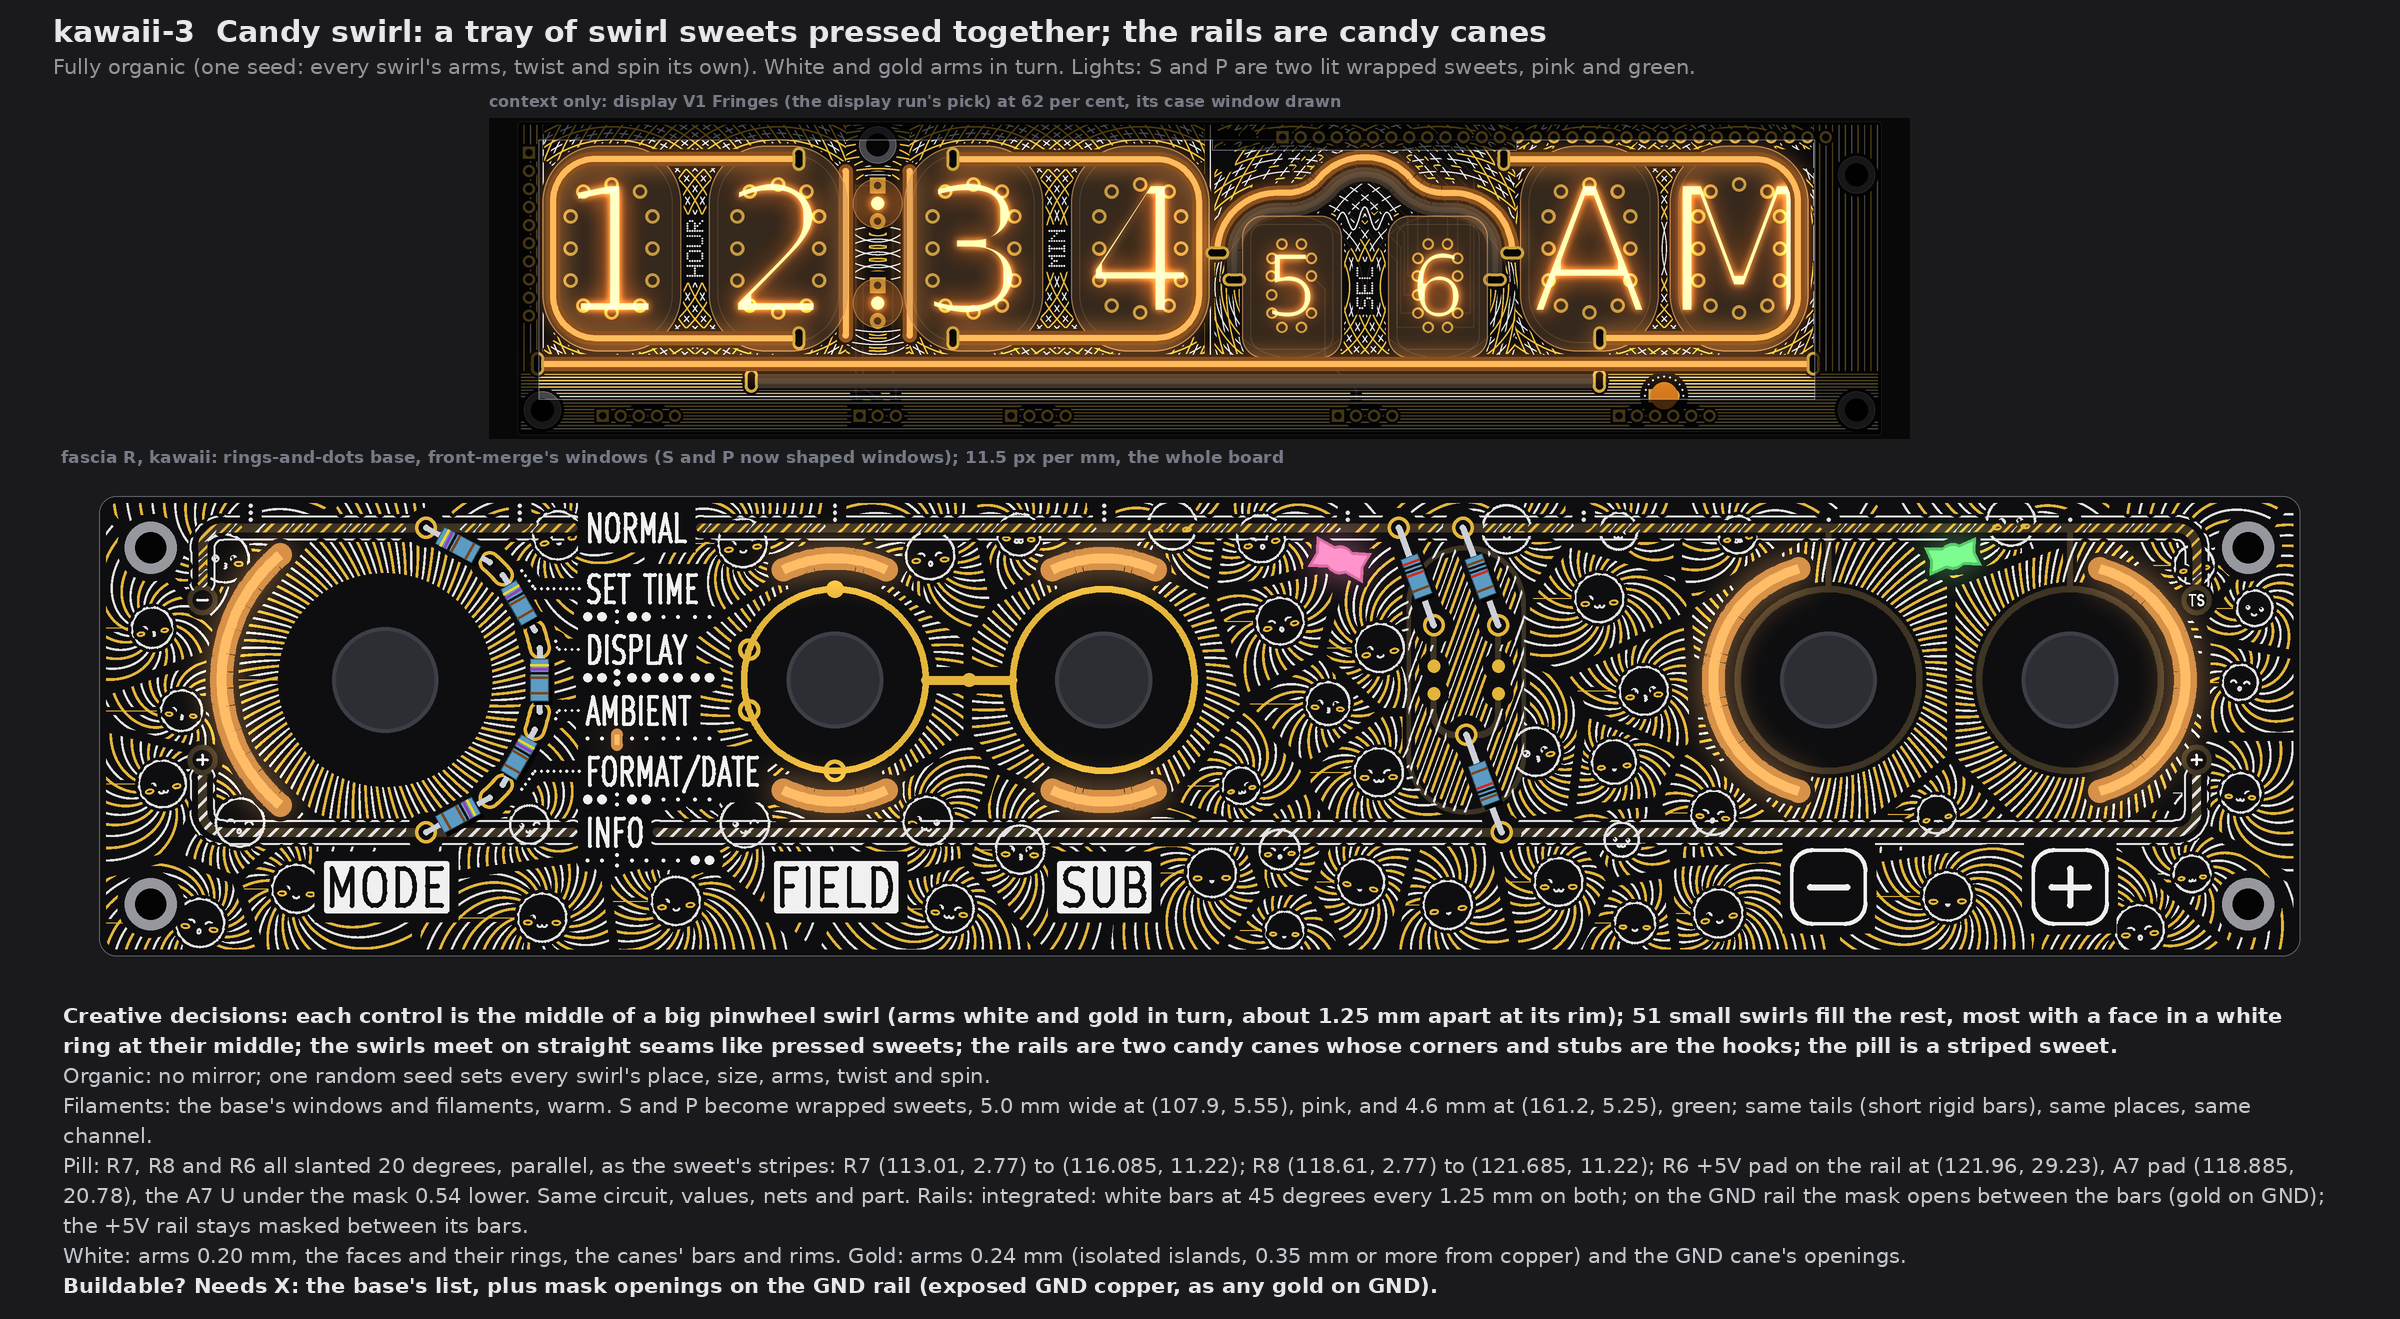
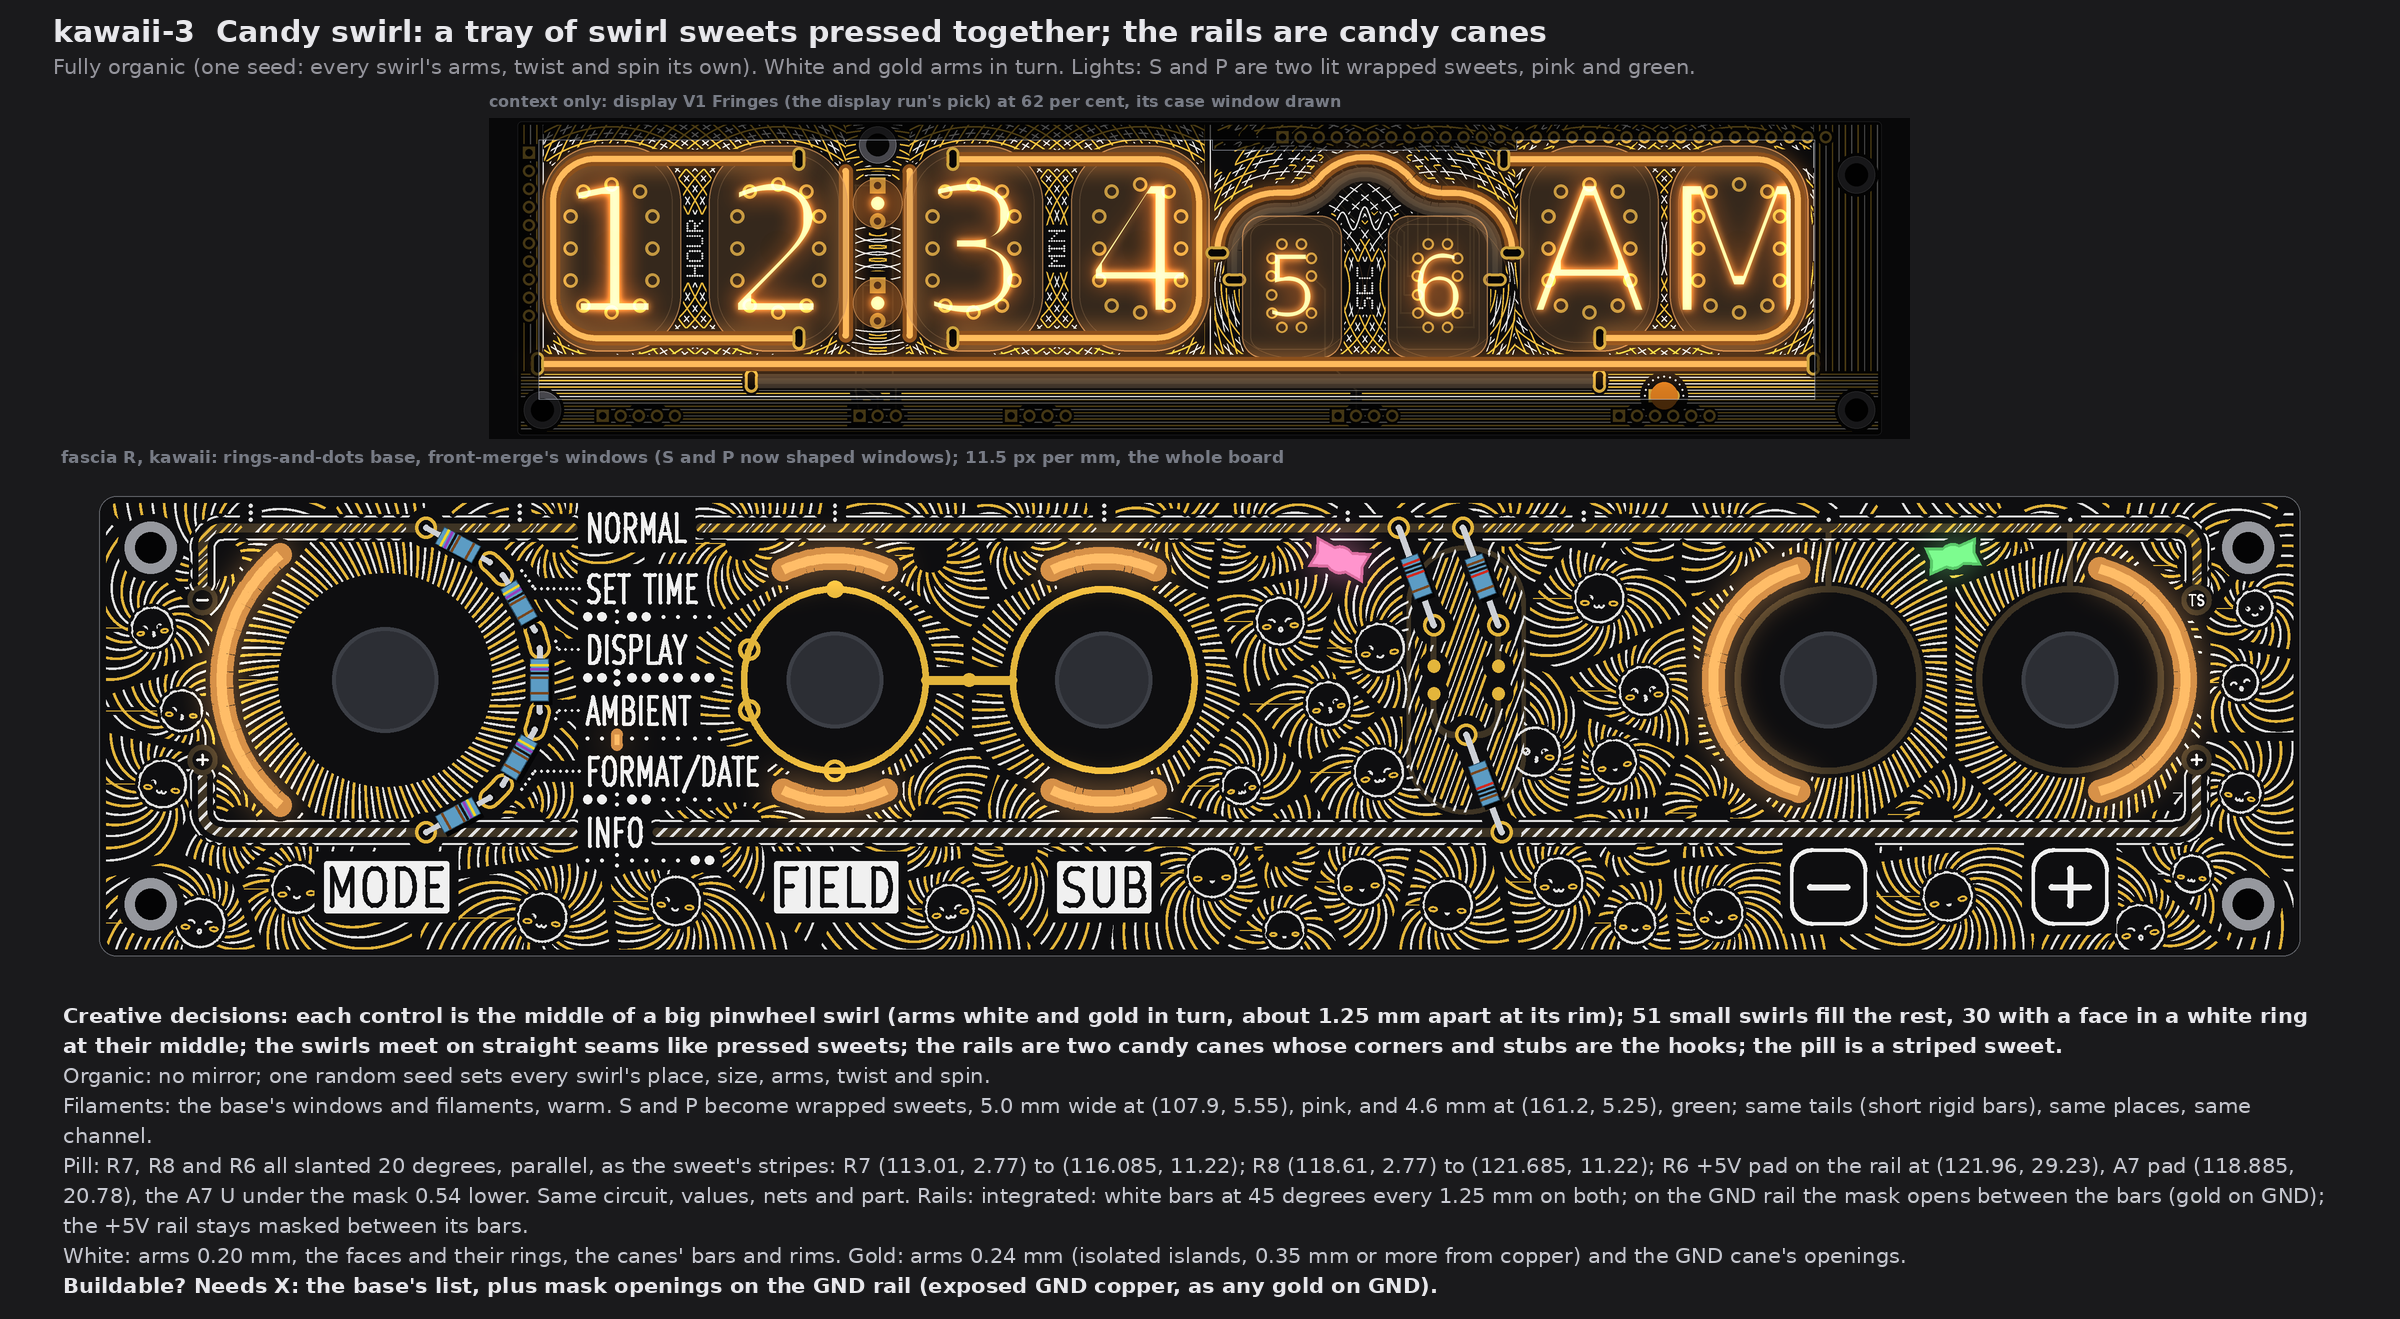
PCB/art: TS06 fascia kawaii write-up; final faces after the full-size look (drawings only)
Claude-Session: https://claude.ai/code/session_01WoV3gyAFgmtuk6W6Dr4bdA

diff --git a/PCB/art/TS06-FASCIA-kawaii.md b/PCB/art/TS06-FASCIA-kawaii.md
@@ -1,0 +1,173 @@
+# TS06 fascia, kawaii: three faces over the fascia light base (drawings only, nothing built)
+
+2026-10-14, front round 3, run fascia-kawaii. The owner's word for this theme: "kawaii - name speaks for itself"; all three faces
+wild, art over the whole board, info first. Every character is my own; none is an existing character, brand or emblem. The owner's
+queue changes of 19:5x UTC are in: the two top-edge dots are gone and their lights feed shaped windows, each face arranges the pill
+(the ladder's capsule) and fills it, each face says what it does with the rails, and display V1 Fringes (the display run's pick)
+stands above each face as context.
+
+Each face is fascia R with the owner's rings-and-dots (front-merge section 6) and front-merge's windows and C, drawn from the board
+file's copy that pass 4 used, at one scale (11.5 px per mm), windows lit. No board, schematic, fab, tool, 3D, firmware or spec file
+was touched. The scripts are scratch (copies of the science run's), not in the repo. Marks: *measured* is from the drawing's raster
+(23 px per mm) or the board file; *inferred* is arithmetic; *assumed* is my reading.
+
+![The three faces at one scale](TS06-FASCIA-kawaii/contact-sheet.png)
+
+## 1. What every face keeps
+
+* **Fixed:** the outline, holes, controls and their places, J1, the names, plates, key legends, tube maps, dot leaders and the
+  top-edge tube index; FIELD's and SUB's gold rings, the link, the four SUB marks on FIELD's ring and the GND via; C by AMBIENT.
+* **Info first:** white and gold keep 0.75 mm from every name, plate, key legend, tube-map dot, leader and index dot, and from
+  E1's exposed gold (rings, link, marks, the dial's and ladder's pads), so each stands on its own calm ground. Gold keeps 0.35 mm
+  from all other copper; white may run over copper under the mask. Nothing crosses a legend (section 6).
+* **The light base:** front-merge's windows and C, warm by default. The two 2.0 mm dots info S (108.6, 4.5) and info P
+  (160.9, 4.5) are gone on every face; their lights now feed shaped windows (section 5).
+* **Channels on the new fascia connector** (J1 is full; front-merge items 10 and 11), grouping *assumed* as the organic run's:
+  1 MODE, 2 FIELD up + down, 3 SUB up + down, 4 the two keys, 5 info S + P + C, 6 spare. All three faces stay on 1 to 5. Nothing
+  comes from DISP. No face adds a filament, so the 5 V worst case is the base's (front-merge section 5).
+* **Fab note (once):** bare-FR4 windows still need the fab's yes (pass 1's coupon). Not decided here.
+
+## 2. kawaii-1 Mochi crowd
+
+![kawaii-1](TS06-FASCIA-kawaii/kawaii-1-mochi-crowd.png)
+
+* **Creative decisions:** a crowd of 126 small round characters of my own (soft, flat-bottomed mochi) packed largest-first into
+  every free space. Each leans and looks toward its nearest control. Faces come from a small set (dot, happy, sleepy, wink and
+  sparkle eyes; w, u, o and 3 mouths); some have bunny, cat or bear ears or a sprout. Sugar dots and four-point sparkles fill the
+  gaps. White and gold bodies alternate.
+* **Fully organic.** No mirror anywhere; one random seed sets every size, tilt, face and place.
+* **Filaments:** the base's, warm: MODE arc 38 flex; FIELD and SUB up and down, 18.5 rigid in curved clips (or 38 flex); the key
+  arcs, 38 flex each; C's tail. **S and P become two lit hearts**, 3.3 mm and 2.9 mm wide, at (108.4, 5.55) and (161.3, 5.35),
+  tilted -14 and +11 degrees. Same tails, same places, same channel, **pink** (the sold rigid pink).
+* **Pill:** nothing moved (E1's places for R6, R7 and R8). A sleepy mochi is tucked in at its top between R7 and R8, and a small
+  heart sits between the landing dots. The circuit is unchanged.
+* **Rails: shown, white.** A 0.3 mm white line runs over each masked rail, its corners and its stubs to the lugs. The crowd sits on
+  them like shelves (the characters keep 0.5 mm off the lines).
+* **White:** outlines and faces 0.18 mm, sugar dots r 0.13, sparkles; over masked copper only.
+* **Gold:** 54 of the bodies and the blush ovals, 0.22 mm; isolated islands, 0.68 mm or more from copper.
+* **Buildable? OK** on the base's own needs (front-merge items 9 to 11); the hearts are cut like the other windows.
+
+## 3. kawaii-2 Plush pals
+
+![kawaii-2](TS06-FASCIA-kawaii/kawaii-2-plush-pals.png)
+
+* **Creative decisions:** the fascia is a plush sewn from panels, with white stitches on the seams, and the controls are the
+  characters:
+  * a daisy round the dial (18 petals with gold midribs);
+  * a cub whose ears are the two levers and whose headband is the gold link;
+  * a bunny in the pill whose ears are R7 and R8;
+  * a hamster whose cheeks are the keys (their arcs lit pink as blush), whose closed eyes are the lit P window, and whose paws hold
+    the minus and plus;
+  * a column of hearts.
+
+  Each panel is filled with its character's outline repeated, white and gold in turn, like a sticker's borders.
+* **Strictly symmetric.** Each panel is mirrored exactly on its own axis: the dial's panel (x 0 to 55.8, y 0 to 32) on the control
+  row y 16 (its rails, taps, ladder, leaders and name rows are all mirrored there); the hems under it on x 24.99 (MODE) and 52.89;
+  the cub on 75.68; the hearts on 98.28; the bunny on 118.885; the hamster on 160.9; the edge on 188.215.
+  * A panel keeps a stroke only if its mirror image keeps it, so the cuts round the information are mirrored too.
+  * *Measured:* the share of a panel's ink with no mirror partner within 2 px is 0 for the daisy, the hems and the edge, at most
+    0.2 per cent for the cub and the bunny, and at most 1.3 per cent for the hearts and the hamster (raster rounding).
+  * Where a screw's mirror image falls inside a panel, at (4.5, 27.5) and (45.48, 35.5), a sewn button fills the mirrored cut: the
+    art's twin of a part.
+* **Filaments:**
+  * The base's MODE arc and FIELD and SUB arcs stay warm.
+  * **The key arcs become pink** (38 flex, pink; the cheeks).
+  * **P becomes the hamster's closed eyes:** two windows 3.2 x 1.15 mm, 0.95 thick, at (156.3, 6.3) and (165.5, 6.3). They are lit
+    by **one 18.5 rigid bar, warm**, lying level at y 6.3 from x 151.65 to 170.15 behind both. It replaces the tail and sits 1.8 mm
+    lower.
+  * **S moves into the pill** as a 3.0 mm pink heart at (118.885, 8.35). Its tail moves 10.3 mm right and 3.85 mm down. C stays as
+    the base.
+* **Pill:** R7 (20k) and R8 (10k) are splayed 18 degrees out as the bunny's ears. R6 does not move. The circuit, values, nets and
+  part do not change.
+  * The top pads stay on the GND rail, at x 113.31 and 124.47 (were 116.085 and 121.685).
+  * The bottom pads stay at x 116.085 and 121.685, now at y 11.33 (were 11.77), so the LEVA and LEVB drops are 0.44 mm longer.
+  * The pads keep 1.0 mm or more from the capsule's GND walls (*inferred*).
+  * The landing dots (the eyes) do not move. Nor do the A7 U and its route to J1 pin 4 (A7, at (154.4, 30.55) on the back, as on
+    the ordered board).
+* **Rails: hidden** under the mask, as in E1; the panels' white runs over them.
+* **White:** outlines 0.18 mm at 1.1 mm pitch, the characters, the seams (0.7 mm dashes), the buttons.
+* **Gold:** the half-pitch outlines 0.22 mm, the petals' midribs, the cub's nose and blush, the hamster's nose; isolated islands,
+  0.36 mm or more from copper.
+* **Buildable? Needs X:** the base's list, plus new clip places and pour cuts for the P bar and the moved S tail, and pink flex
+  for the key arcs.
+
+![kawaii-2 at 2x](TS06-FASCIA-kawaii/detail-2x.png)
+
+## 4. kawaii-3 Candy swirl
+
+![kawaii-3](TS06-FASCIA-kawaii/kawaii-3-candy-swirl.png)
+
+* **Creative decisions:** a tray of swirl sweets pressed together.
+  * Each control is the middle of a big pinwheel swirl: 46 to 58 arms, white and gold in turn, about 1.25 mm apart at its rim,
+    each with its own twist and spin.
+  * 51 smaller swirls fill the rest. 30 of them have a face in a white ring at their middle.
+  * The swirls meet on straight seams, like pressed sweets.
+  * The rails are two candy canes; their corners and stubs to the lugs are the hooks.
+  * The pill is a striped sweet.
+* **Fully organic.** No mirror; one random seed sets every swirl's place, size, arms, twist and spin.
+* **Filaments:** the base's windows and filaments, warm. **S and P become two lit wrapped sweets**: 5.0 mm wide at (107.9, 5.55),
+  **pink**, and 4.6 mm at (161.2, 5.25), **green**. Same tails at the same places (*assumed* the shortest sold rigid bar, 18.5,
+  lying behind each sweet), same channel.
+* **Pill:** R7, R8 and R6 are all slanted 20 degrees, parallel, as the sweet's stripes. White and gold stripes 0.95 mm apart run
+  parallel to them inside the capsule. The circuit, values, nets and part do not change.
+  * R7 runs from (113.01, 2.77) to (116.085, 11.22).
+  * R8 runs from (118.61, 2.77) to (121.685, 11.22). Its top pad meets the capsule's GND stem, which is the same net.
+  * R6's +5V pad sits on the rail at (121.96, 29.23), 1.25 mm from the capsule's bottom arc (*inferred*). Its A7 pad is at
+    (118.885, 20.78), and the A7 U under the mask moves 0.54 mm lower.
+* **Rails: integrated** as canes. White bars at 45 degrees, every 1.25 mm, cross both rails, and a white rim runs 0.6 mm off each
+  cane. On the GND rail the mask opens between the bars (gold, on GND); the +5V rail stays masked between its bars. The copper does
+  not change.
+* **White:** the arms 0.20 mm, the faces and their rings, the canes' bars and rims.
+* **Gold:** the arms 0.24 mm (isolated islands, 0.34 mm or more from any copper that is not the GND rail), and the GND cane's
+  openings.
+* **Buildable? Needs X:** the base's list, plus mask openings on the GND rail (exposed GND copper, like any gold on GND).
+
+## 5. The light base and what each face changes
+
+![The fascia's back: base and changes](TS06-FASCIA-kawaii/lights-back.png)
+
+| Face | Change against the base | Filament (sold list), form | Colour | Channel | On the fascia's back |
+|---|---|---|---|---|---|
+| kawaii-1 | S and P reshaped as hearts (3.3 and 2.9 mm), same places | the base's tails | pink | 5 | the pour cuts follow the hearts |
+| kawaii-2 | **S moved** to (118.885, 8.35) as a 3.0 mm heart; **P reshaped and moved 1.8 mm down** into two closed-eye windows at (156.3, 6.3) and (165.5, 6.3); key arcs recoloured | S: the tail, moved; P: **one 18.5 rigid bar**, level, x 151.65 to 170.15; keys: 38 flex | S pink, P warm, keys **pink** | 5, 5, 4 | new pour cuts and clip places; the S tail sits between R7's and R8's leads on the pill's back (room *assumed*) |
+| kawaii-3 | S and P reshaped as wrapped sweets (5.0 and 4.6 mm), same places | the tails (*assumed* 18.5 rigid) | S pink, P **green** | 5 | the pour cuts follow the sweets |
+
+**Colours each face ships with:** kawaii-1 warm + pink; kawaii-2 warm + pink; kawaii-3 warm + pink + green. No face adds a
+filament or a channel; the 5 V worst case stays the base's.
+
+## 6. The checks (*measured* on the raster, 23 px per mm)
+
+| Check | Rule | kawaii-1 | kawaii-2 | kawaii-3 |
+|---|---|---|---|---|
+| White, gold to a name, plate, key legend, tube map, leader or index dot | 0.75 | 0.78, 1.04 | 0.78, 0.80 | 0.78, 0.78 |
+| White, gold to E1's exposed gold (rings, link, marks, pads) | 0.30 (frame 0.75 drawn) | 0.74, 1.03 | 0.75, 0.75 | 0.74, 0.74 |
+| Pattern gold to copper (kawaii-3: other than the GND cane it opens) | 0.30 | 0.68 | 0.36 | 0.34 |
+| White, gold to a lit window | 0.35 | 0.39, 0.59 | 0.39, 0.39 | 0.37, 0.37 |
+| White to the pattern's gold | 0.30 | 0.31 | 0.31 | 0.31 |
+| Lit window to copper | 0.30 | 0.68 | 0.68 | 0.35 (the sweets to the GND rail) |
+| Free board within 1.2 mm of some ink | (no empty space) | 99.9 % | 96.8 % | 99.8 % |
+
+* The least window-to-legend gap on every face is the base's C to AMBIENT's box, 0.26 mm on this raster (front-merge gave 0.32
+  with its own box). It is the base's, not a face's; the board-change run should measure it in KiCad.
+* What stays dark on kawaii-2 is the characters' own faces (inside the cub's head, the bunny's capsule) and the ring of mask between
+  each knob and its window.
+
+## 7. My pick
+
+**kawaii-2 Plush pals.** Here the controls are the characters: the levers are the cub's ears with the link as its headband, the keys
+are the hamster's lit cheeks, and R7 and R8 are the bunny's ears. So it reads as kawaii from arm's length, while every name keeps its
+calm ground, and it is the strictly symmetric one. kawaii-1 Mochi crowd is the warmest fill if the owner wants the whole board
+covered without panels.
+
+## 8. Left open, assumed
+
+* *Assumed:* the info tails are short bars (as the science run took them). kawaii-3's sweets want the shortest sold rigid bar
+  behind each.
+* *Assumed:* kawaii-2's S tail fits on the pill's back between the leads of R7 and R8. The back's room was not checked.
+* The rearranged pills are drawn on the art model's places (E1). The ordered board (`R-open`) still has R6 to R8 elsewhere, as
+  1206 parts on the back; the board-change run places them.
+* The pattern's gold is isolated islands (no net), except kawaii-3's cane openings, which are the GND rail itself. Stems to GND can
+  be added if the fab wants no floating copper; not drawn.
+* The faces' smallest strokes (0.15 to 0.18 mm silk) are at the fab's silk limit used before (0.15); the canes' mask openings are
+  0.3 mm wide (*inferred* printable, not asked).
+* Not checked: KiCad DRC (no board file edited), and the back's own copper behind the new and moved windows.
